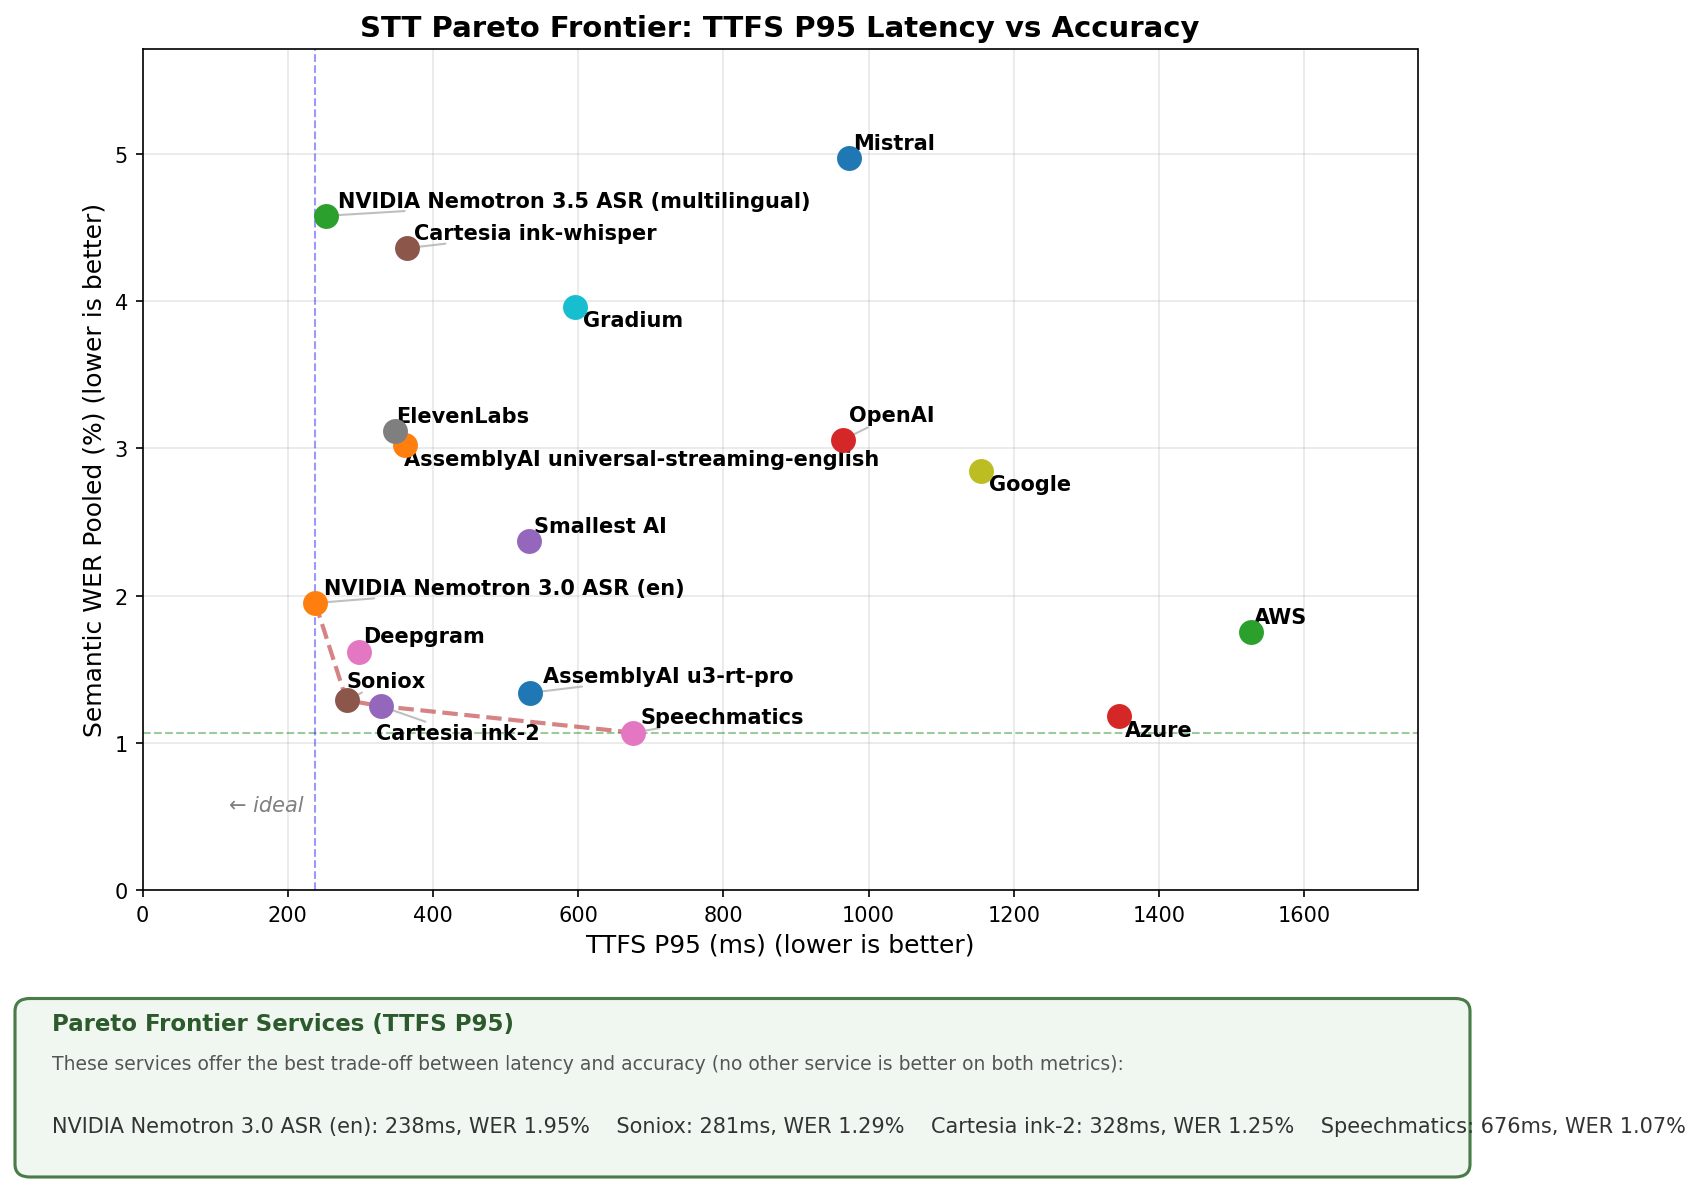
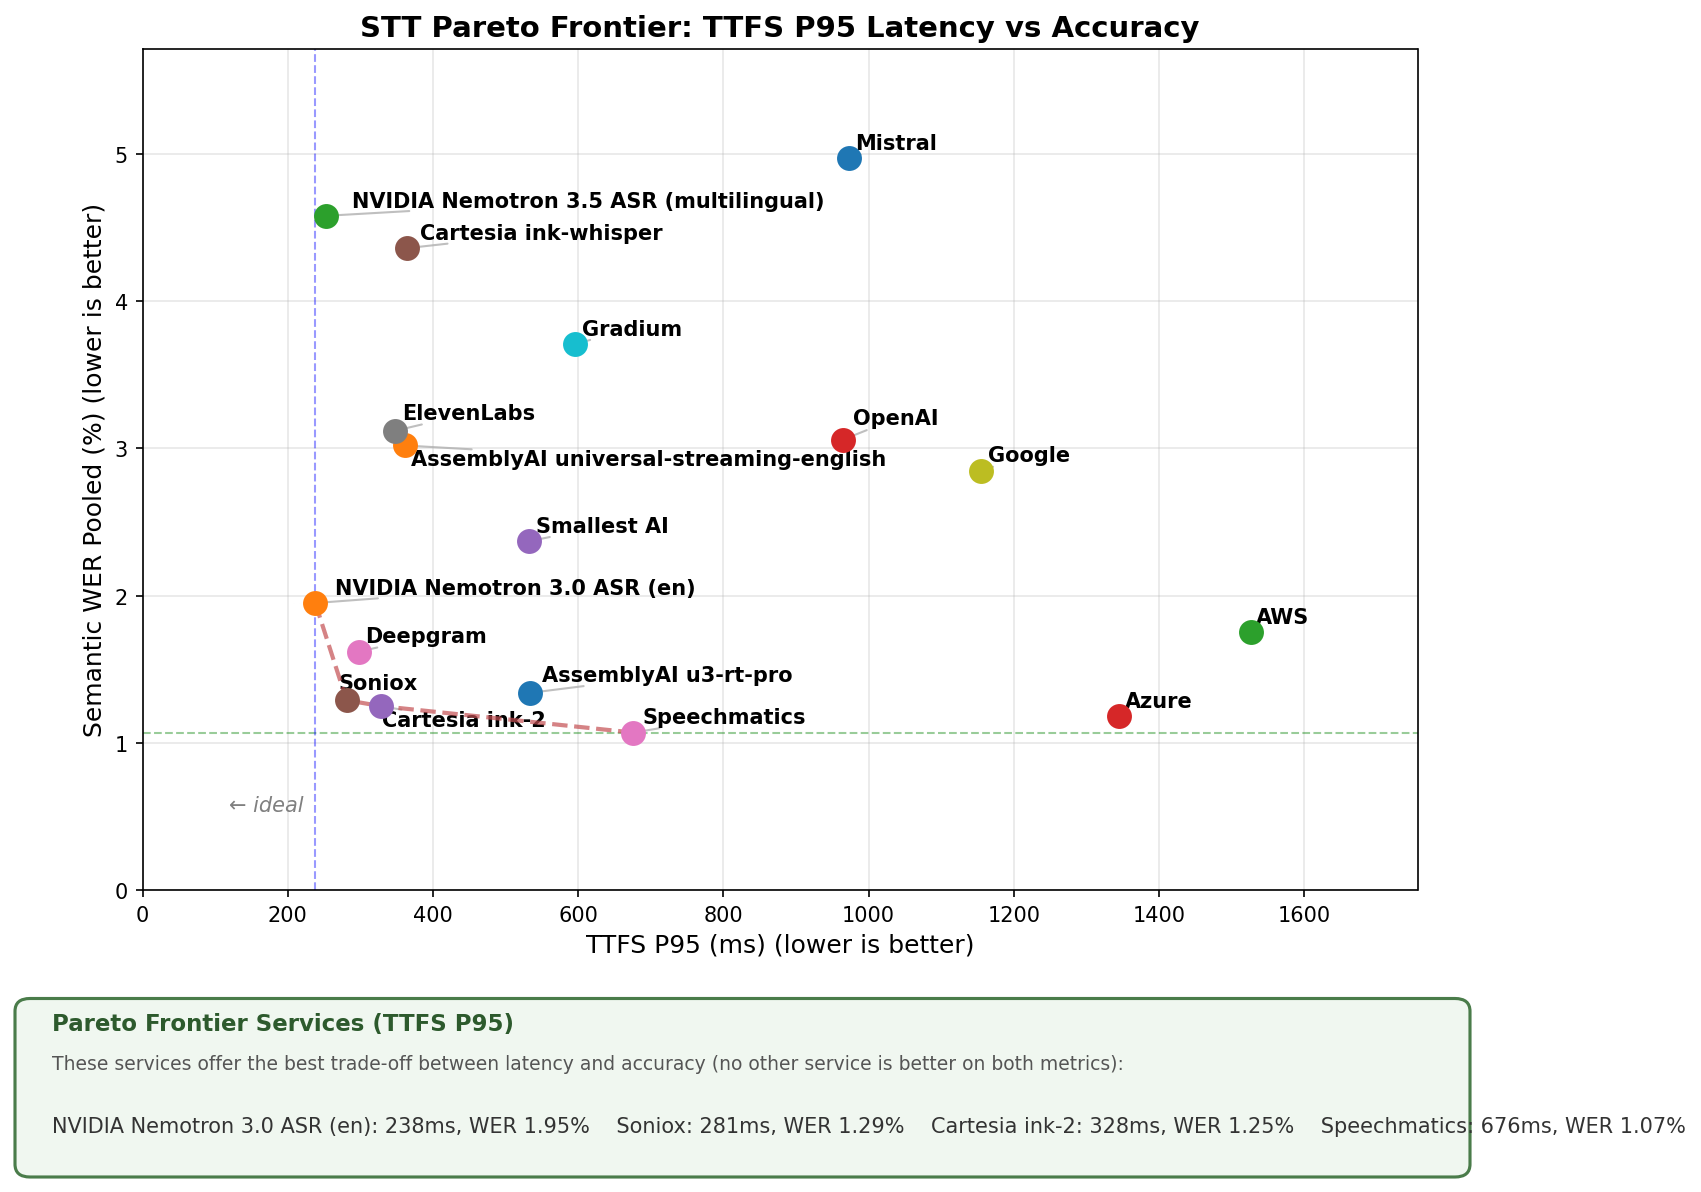
Update Gradium results after re-run

diff --git a/README.md b/README.md
@@ -18,7 +18,7 @@ Benchmark results on 1000 samples from the `pipecat-ai/smart-turn-data-v3.1-trai
 | Deepgram | nova-3-general | 99.8% | 76.5% | 1.71% | 1.62% | 247ms | 298ms | 326ms |
 | ElevenLabs | scribe_v2_realtime | 99.7% | 81.3% | 3.16% | 3.12% | 281ms | 348ms | 407ms |
 | Google | latest-long | 100.0% | 69.0% | 2.84% | 2.85% | 878ms | 1155ms | 1570ms |
-| Gradium | default | 99.7% | 65.3% | 3.72% | 3.96% | 570ms | 595ms | 614ms |
+| Gradium | default | 99.8% | 65.1% | 3.56% | 3.71% | 570ms | 596ms | 622ms |
 | Mistral | voxtral-mini-transcribe-realtime-2602 | 99.3% | 68.8% | 4.44% | 4.97% | 525ms | 973ms | 1913ms |
 | NVIDIA | Nemotron 3.0 ASR (en) | 100.0% | 76.1% | 1.90% | 1.95% | 221ms | 238ms | 252ms |
 | NVIDIA | Nemotron 3.5 ASR (multilingual) | 99.6% | 62.0% | 4.54% | 4.58% | 236ms | 253ms | 266ms |